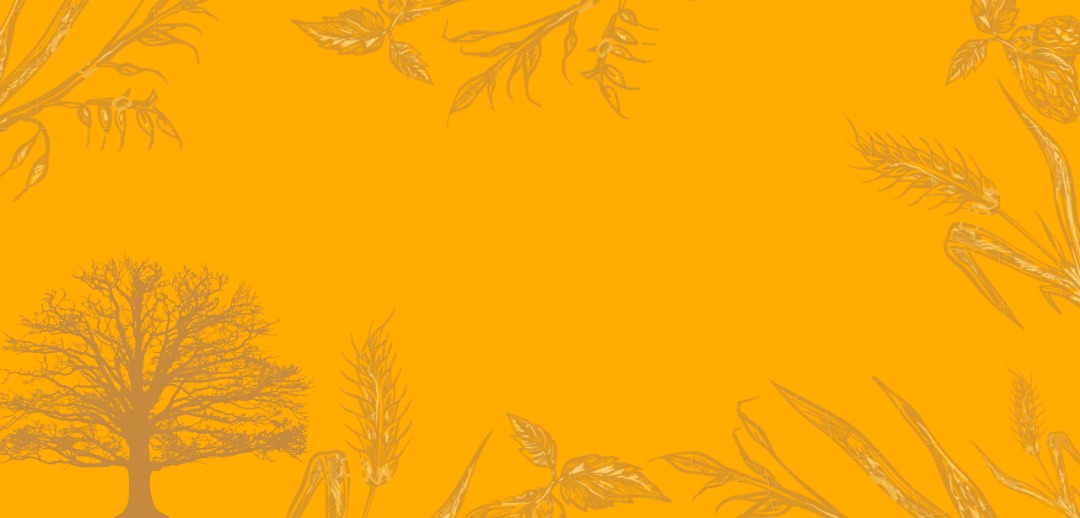
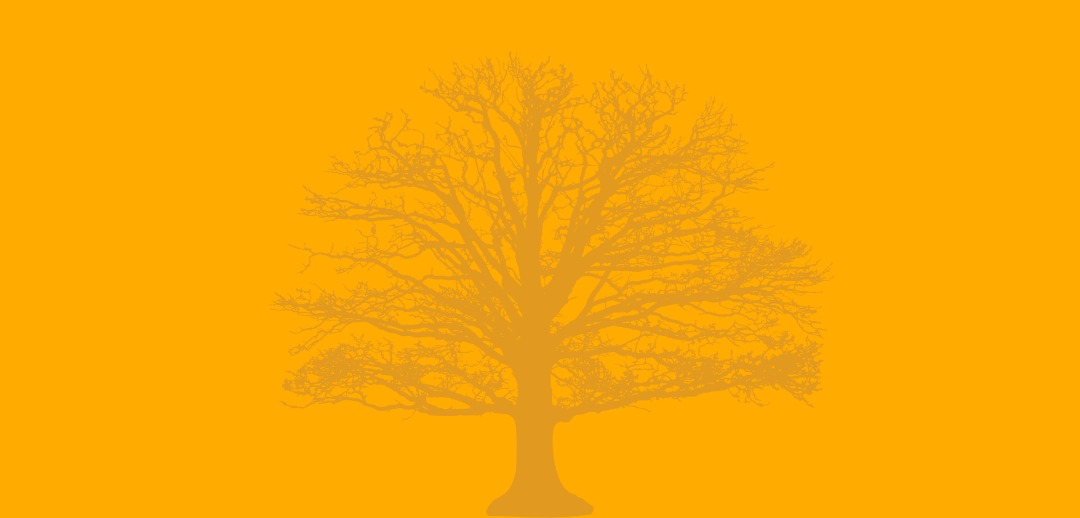
Changes from meeting

diff --git a/src/main/html/klass/klass-fam.html b/src/main/html/klass/klass-fam.html
@@ -4,11 +4,13 @@
         <script src="https://cdnjs.cloudflare.com/ajax/libs/jquery/2.1.3/jquery.min.js"></script>
         <script src="/src/main/js/fullscreen-drag-slider.js"></script>
         <script src="/src/main/js/map-hotspot.js"></script>
-        <link rel="stylesheet" href="/src/main/css/fredericks-fam.css">
+        <link rel="stylesheet" href="/src/main/css/klass-fam.css">
         <link rel="stylesheet" href="/src/main/css/map-hotspot.css">
+
     </head>
 
     <body>
+
         <div class="slider-container">
             <div class="slider-control left inactive"></div>
             
@@ -22,24 +24,25 @@
                           <a class="marker marker1" href="#marker1">+</a>
                       
                           <aside id="marker1" class="map-popup">
-                            <h3 class="popup-title">Popup Title</h3>
-                            <p>Lorem ipsum dolor sit amet, consectetur adipisicing elit. Quia pariatur laudantium deserunt minima delectus illum dolor, nesciunt sit iure, debitis eligendi blanditiis, tempore quidem cupiditate quaerat incidunt sapiente aliquam? Debitis!</p>
+                            <h3 class="popup-title">The Klass Family 1926</h3>
+                            <p>A Family Portrait</p>
                           </aside>
                         </div>
                     </div>
 
                     <div class="slide__bg"></div>
                     <div class="slide__content">
-                        <svg class="slide__overlay" viewBox="0 0 720 405" preserveAspectRatio="xMaxYMax slice">
-                            <path class="slide__overlay-path" d="M0,0 150,0 500,405 0,405" />
-                        </svg>
-                        <div class="slide__text">
-                            
-                            <h2 class="slide__text-heading">The Search for My Identity</h2>
-                            <p class="slide__text-desc">Explore Timothy Frederick's Generations.</p>
-                            <p class="slide__text-desc"> To forget one’s ancestors is to be a brook without a source, a tree without a root. – Chinese Proverb</p>
-                            <a class="slide__text-link">See the Family Tree!</a>
+                            <svg width="100%" height="100%" class="slide__overlay" viewBox="0 0 720 405" preserveAspectRatio="xMaxYMax slice">
+                                <!-- draw rectangle -->
+                                <g transform="translate(52,10)">
+                                  <path d="M0,0 150,0 151,450 -1000,900" style="fill:orange;" />
+                                </g>
+                            </svg>
+                        <div class="slide__text" style = "margin-left: -159px;">
+                            <h2 class="slide__text-heading" style = "font-family : Arial, Helvetica, sans-serif; margin-left:50px;">Explore <br>Klass Family</h2>
+                            <p class="slide__text-desc" style = "font-size : 20px" >Cedric Periera lives in Singapore, and has traced his roots back seven generations back to Melaka. <br><br>The Dutch side of him originates from his grandmother, Margaret Augusta Klass. <br><br>Having spent much time bonding with her as he was growing up, he was invited into her world through her stories.</p>
                         </div>
+
                     </div>
                 </div>
             
@@ -49,9 +52,13 @@
                         <svg class="slide__overlay" viewBox="0 0 720 405" preserveAspectRatio="xMaxYMax slice">
                             <path class="slide__overlay-path" d="M0,0 150,0 500,405 0,405" />
                         </svg>
+                        <svg class = "familytree" xmlns="http://www.w3.org/2000/svg" width="39" height="39" fill="white" class="bi bi-diagram-4-fill" viewBox="0 1 16 16">
+                            <path fill-rule="evenodd" d="M6 3.5A1.5 1.5 0 0 1 7.5 2h1A1.5 1.5 0 0 1 10 3.5v1A1.5 1.5 0 0 1 8.5 6v1H14a.5.5 0 0 1 .5.5v1a.5.5 0 0 1-1 0V8h-5v.5a.5.5 0 0 1-1 0V8h-5v.5a.5.5 0 0 1-1 0v-1A.5.5 0 0 1 2 7h5.5V6A1.5 1.5 0 0 1 6 4.5v-1zm-6 8A1.5 1.5 0 0 1 1.5 10h1A1.5 1.5 0 0 1 4 11.5v1A1.5 1.5 0 0 1 2.5 14h-1A1.5 1.5 0 0 1 0 12.5v-1zm6 0A1.5 1.5 0 0 1 7.5 10h1a1.5 1.5 0 0 1 1.5 1.5v1A1.5 1.5 0 0 1 8.5 14h-1A1.5 1.5 0 0 1 6 12.5v-1zm6 0a1.5 1.5 0 0 1 1.5-1.5h1a1.5 1.5 0 0 1 1.5 1.5v1a1.5 1.5 0 0 1-1.5 1.5h-1a1.5 1.5 0 0 1-1.5-1.5v-1z"/>
+                        </svg>
                         
                         <div class="slide__text">
                             <p class="slide__text-desc">Lorem ipsum dolor sit amet, consectetur adipisicing elit. Distinctio veniam minus illo debitis nihil animi facere, doloremque voluptate tempore quia. Lorem ipsum dolor sit amet, consectetur adipisicing elit. Distinctio veniam minus illo debitis nihil animi facere, doloremque voluptate tempore quia.</p>
+                            <a class="slide__text-link">See the Family Tree!</a>
                         </div>
                     </div>
                 </div>

diff --git a/src/main/html/klass/fredericks-fam.html b/src/main/html/klass/fredericks-fam.html
@@ -4,12 +4,13 @@
         <script src="https://cdnjs.cloudflare.com/ajax/libs/jquery/2.1.3/jquery.min.js"></script>
         <script src="/src/main/js/fullscreen-drag-slider.js"></script>
         <script src="/src/main/js/map-hotspot.js"></script>
-        <link rel="stylesheet" href="/src/main/css/fredericks-fam.css">
+        <link rel="stylesheet" href="/src/main/css/klass-fam.css">
         <link rel="stylesheet" href="/src/main/css/map-hotspot.css">
 
     </head>
 
     <body>
+
         <div class="slider-container">
             <div class="slider-control left inactive"></div>
             
@@ -32,15 +33,18 @@
                     <div class="slide__bg"></div>
                     <div class="slide__content">
                         <svg class="slide__overlay" viewBox="0 0 720 405" preserveAspectRatio="xMaxYMax slice">
-                            <path class="slide__overlay-path" d="M0,0 150,0 500,405 0,405" />
+                            <path class="slide__overlay-path" d="M0,0 150,0 500,405 0,405" fill="url(#img1)"/>
+                        </svg>
+                        <svg class = "familytree" xmlns="http://www.w3.org/2000/svg" width="39" height="39" fill="white" class="bi bi-diagram-4-fill" viewBox="0 0 16 16">
+                            <path fill-rule="evenodd" d="M6 3.5A1.5 1.5 0 0 1 7.5 2h1A1.5 1.5 0 0 1 10 3.5v1A1.5 1.5 0 0 1 8.5 6v1H14a.5.5 0 0 1 .5.5v1a.5.5 0 0 1-1 0V8h-5v.5a.5.5 0 0 1-1 0V8h-5v.5a.5.5 0 0 1-1 0v-1A.5.5 0 0 1 2 7h5.5V6A1.5 1.5 0 0 1 6 4.5v-1zm-6 8A1.5 1.5 0 0 1 1.5 10h1A1.5 1.5 0 0 1 4 11.5v1A1.5 1.5 0 0 1 2.5 14h-1A1.5 1.5 0 0 1 0 12.5v-1zm6 0A1.5 1.5 0 0 1 7.5 10h1a1.5 1.5 0 0 1 1.5 1.5v1A1.5 1.5 0 0 1 8.5 14h-1A1.5 1.5 0 0 1 6 12.5v-1zm6 0a1.5 1.5 0 0 1 1.5-1.5h1a1.5 1.5 0 0 1 1.5 1.5v1a1.5 1.5 0 0 1-1.5 1.5h-1a1.5 1.5 0 0 1-1.5-1.5v-1z"/>
                         </svg>
                         <div class="slide__text">
-                            
-                            <h2 class="slide__text-heading">The Impact of Knowing My Identity</h2>
+                            <h2 class="slide__text-heading">Family Tree</h2>
                             <p class="slide__text-desc">Explore Timothy Frederick's Generations.</p>
                             <p class="slide__text-desc"> To forget one’s ancestors is to be a brook without a source, a tree without a root. – Chinese Proverb</p>
                             <a class="slide__text-link">See the Family Tree!</a>
                         </div>
+
                     </div>
                 </div>
             

diff --git a/src/main/html/index.html b/src/main/html/index.html
@@ -53,7 +53,7 @@
         <!-- Main Paragraph -->
         <div class="container-fluid d-flex w-100 h-100 p-5 mx-auto flex-column justify-content-center">
             <br>
-            <h1 class = "display-4" style="font-family: 'Avenir LT Std', sans-serif;">DUTCH MALACCAN FAMILIES</h1>
+            <h1 class = "display-4" style="font-family: 'Avenir LT Std', sans-serif; color : white;">DUTCH MALACCAN FAMILIES</h1>
             <br>
             <p class="lead" , style = "font-family: 'Raleway', sans-serif; font-weight : bold;">Curating Together The <i>Stories Of Families</i>,<br> Who Are Piecing Together Their <i>Dutch Ancestry</i> Today, 
                 <br>And Giving Them The <i>Recognition They Deserve</i>.<br>
@@ -97,7 +97,7 @@
                 
                 <a href="../html/fredericks/fredericks-fam.html" class="img1">
                     <div class="overlay">
-                        <p>
+                        <p class =>
                             <u>The Fredericks Family</u>
                         </p>
                     </div>
@@ -111,7 +111,7 @@
                     </div>
                 </a>
 
-                <a href="#" class="img3">
+                <a href="../html/klass/klass-fam.html" class="img3">
                     <div class="overlay">
                         <p>
                             <u>The Klass Family</u>

diff --git a/src/main/css/index.css b/src/main/css/index.css
@@ -29,7 +29,7 @@
 /* Cover */
 .container-fluid {
     text-align: center;
-    background-image: url(../resources/images/bg-v3.jpeg);
+    background-image: url(../resources/images/bg-v2.jpeg);
     background-attachment: fixed;
     background-size: cover;
     min-height: 100vh;
@@ -230,6 +230,8 @@
     font-size: 20px;
     padding: 20px;
     text-align: center;
+    font-weight : bold;
+    font-family: "Raleway", sans-serif;
 }
 
 
@@ -305,12 +307,13 @@ body {
 }
 
 .image-gallery a:hover {
-    -webkit-filter: grayscale(0);
-    filter: none;
+    -webkit-filter: grayscale(0.4);
+    filter :black;
 }
 
 .image-gallery a:hover .overlay {
     opacity: 1;
+    font-weight: bold;
 }
 
 .img1 {
@@ -324,10 +327,10 @@ body {
     transform: scale(1, 1);
     transition: transform 0.4s;
     background-image: url("../resources/images/fredericks-family/Timothy-Fredericks-&-Family.jpg");
-
+    
 }
 .img1:hover {
-    transform: scale(1.05, 1.05);
+    transform: scale(1.05, 1.05);    
 }
 
 .img2 {
@@ -357,7 +360,7 @@ body {
     transform: scale(1, 1);
     transition: transform 0.4s;
     background-image: url("../resources/images/klass-family/James-Sebastian-Klass-&-Sisters.jpg");
-
+   
 }
 .img3:hover {
     transform: scale(1.05, 1.05);

diff --git a/src/main/css/klass-fam.css b/src/main/css/klass-fam.css
@@ -147,11 +147,10 @@ svg {
 
 .slide__bg {
     position: absolute;
-    top: 0;
     /* left: -50%; */
     width: 100%;
     height: 100%;
-    background-size: cover;
+    /* background-size: cover; */
     will-change: transform;
 }
 
@@ -160,8 +159,12 @@ svg {
 }
 
 .slide:nth-child(1) .slide__bg {
-    left : 376px;
-    background-image: url("/src/main/resources/images/fredericks-family/Ceceilia-Low-Khen-Chia-cropped.jpeg");
+    left : 10px;
+    margin-top : -3px;
+    margin-left : 190px;
+    background-size : 1500px 900px;
+    background-repeat: no-repeat;
+    background-image: url("/src/main/resources/images/klass-family/Klass-Family-Tree-1926-cropped.jpeg");
 }
 
 .slide:nth-child(1) .slide__overlay-path {
@@ -247,7 +250,7 @@ svg {
     transition: transform 0.5s 0.5s, opacity 0.2s 0.5s;
     will-change: transform, opacity;
     transform: translate3d(-20%, 0, 0);
-    opacity: 0;
+    opacity: 1;
 }
 
 @media (max-width: 991px) {
@@ -282,7 +285,7 @@ svg {
     }
 }
 .slide__text-heading {
-    font-family: "Montserrat" , sans-serif;
+    font-family: "Avenir LT Std 95 Black" , sans-serif;
     font-size: 5rem;
     margin-bottom: 2rem;
 }

diff --git a/src/main/html/fredericks/fredericks-fam.html b/src/main/html/fredericks/fredericks-fam.html
@@ -33,11 +33,6 @@
                     <div class="slide__bg"></div>
                     <div class="slide__content">
                         <svg class="slide__overlay" viewBox="0 0 720 405" preserveAspectRatio="xMaxYMax slice">
-                            <defs>
-                                <pattern id="img1" x="0" y="0" width="1" height="1">
-                                    <image width="200" height="250" xlink:href="/src/main/resources/images/bg-v3.jpeg"/>
-                                </pattern>
-                            </defs>
                             <path class="slide__overlay-path" d="M0,0 150,0 500,405 0,405" fill="url(#img1)"/>
                         </svg>
                         <svg class = "familytree" xmlns="http://www.w3.org/2000/svg" width="39" height="39" fill="white" class="bi bi-diagram-4-fill" viewBox="0 0 16 16">
